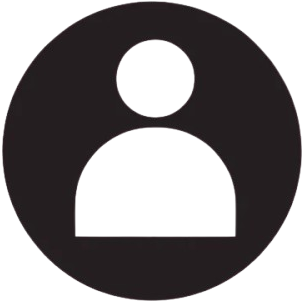
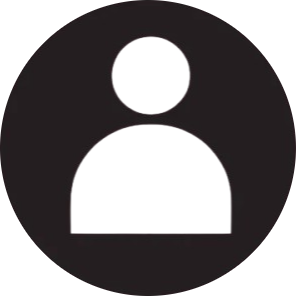
Major Commit.

diff --git a/index.html b/index.html
@@ -21,10 +21,10 @@
             </div>
         </div>
         <div class="nav-right login-and-user">
-            <a href="#">Sign Up</a>
-            <a href="#">Log In</a>
+            <a href="#" class="login-signup">Sign Up</a>
+            <a href="#" class="login-signup">Log In</a>
             <a href="#" class="nav-user">
-                <img src="/img/User-modified.png" alt="User">
+                <img src="/img/User.png" alt="User">
             </a>
         </div>
     </nav>
@@ -32,16 +32,48 @@
     <header>
         <div class="header-text">
             <h1>Learn How To Drum!</h1>
-            <p>With How To Drum.</p>
+            <p>With <span>How To Drum</span></p>
         </div>
     </header>
 
     <main>
-        <section class="">
-
+        <section class="drum-components-section">
+            <div class="section-title">
+                <h1>DRUM COMPONENTS</h1>
+            </div>
+            <div class="component-card-container">
+                <div class="component-card snare-card">
+                    <img src="/img/drum-component/snare.png" alt="Snare">
+                    <div class="component-card-description snare-card-description">
+                        <h2>Snare</h2>
+                        <p>Lorem ipsum dolor sit amet, consectetur adipisicing elit. Explicabo perspiciatis voluptatum ab, laudantium quibusdam quisquam 
+                        minus ipsum vel omnis nostrum magnam impedit nesciunt odio! Modi laborum reiciendis facere numquam autem.</p>
+                    </div>
+                </div>
+                <div class="component-card floor-tom-card">
+                    <img src="img/drum-component/floor-tom.png" alt="Floor Tom">
+                    <div class="component-card-description floor-tom-card-description">
+                        <h2>Floor Tom</h2>
+                        <p>Lorem ipsum dolor sit amet, consectetur adipisicing elit. Explicabo perspiciatis voluptatum ab, laudantium quibusdam quisquam minus ipsum vel omnis nostrum magnam impedit nesciunt odio! Modi laborum reiciendis facere numquam autem.</p>
+                    </div>
+                </div>
+                <div class="component-card floor-tom-card">
+                    <img src="img/drum-component/floor-tom.png" alt="Floor Tom">
+                    <div class="component-card-description floor-tom-card-description">
+                        <h2>Floor Tom</h2>
+                        <p>Lorem ipsum dolor sit amet, consectetur adipisicing elit. Explicabo perspiciatis voluptatum ab, laudantium quibusdam quisquam minus ipsum vel omnis nostrum magnam impedit nesciunt odio! Modi laborum reiciendis facere numquam autem.</p>
+                    </div>
+                </div>
+                <div class="component-card floor-tom-card">
+                    <img src="img/drum-component/floor-tom.png" alt="Floor Tom">
+                    <div class="component-card-description floor-tom-card-description">
+                        <h2>Floor Tom</h2>
+                        <p>Lorem ipsum dolor sit amet, consectetur adipisicing elit. Explicabo perspiciatis voluptatum ab, laudantium quibusdam quisquam minus ipsum vel omnis nostrum magnam impedit nesciunt odio! Modi laborum reiciendis facere numquam autem.</p>
+                    </div>
+                </div>
+            </div>
         </section>
         <section class="">
-
         </section>
     </main>
 </body>

diff --git a/style.css b/style.css
@@ -17,8 +17,10 @@ nav {
     display: flex;
     justify-content: space-between;
     align-items: center;
-    padding: 7px 10px;
+    padding: 6px 10px;
     background-color: cornflowerblue;
+    position: sticky;
+    top: 0;
 }
 
 .nav-left, .nav-right {
@@ -28,7 +30,7 @@ nav {
 
 .nav-logo img {
     height: 2.5rem;
-    margin-left: 0.7rem;
+    margin-left: 0.7rem;     
 }
 
 .nav-items {
@@ -56,9 +58,27 @@ nav {
     font-family: 'Raleway', sans-serif;
 }
 
+.nav-right .login-signup {
+    padding: 5px 10px;
+    margin: 3px;
+    border-radius: 0.9rem;
+    transition: all 0.15s linear;
+}
+
+.nav-right .login-signup:hover {
+    background-color: white;
+    box-shadow: 0 0 10px rgba(0, 0, 0, 0.7);
+}
+
 .nav-user img {
     height: 2rem;
     border-radius: 50%;
+    box-shadow: 0 0 10px rgba(0, 0, 0, 0.2);
+    transition: all .15s linear;
+}
+
+.nav-user img:hover {
+    box-shadow: 0 0 10px rgba(0, 0, 0, 0.7);
 }
 
 header {
@@ -84,4 +104,64 @@ header {
     font-family: 'Bebas Neue', serif;
     font-size: 1.5rem;
     margin: 0;
+}
+
+.header-text p span {
+    color: #A4A4A4;
+}
+
+.drum-components-section {
+    background-color: #FFF8F3;
+    padding: 0 115px;
+}
+
+.drum-components-section .section-title h1 {
+    font-size: 2rem;
+    font-weight: 700;
+    font-family: 'Bebas Neue', serif;
+    text-align: center;
+    margin: 30px 10px;
+}
+
+.component-card-container {
+    display: flex;
+    flex-wrap: wrap;
+    justify-content: space-between;
+}
+
+.component-card {
+    display: flex;
+    align-items: center;
+    gap: 20px;
+    padding: 20px;
+    border-radius: 20px;
+    background-color: #fff;
+    box-shadow: 0 0 10px rgba(0, 0, 0, 0.2);
+    border: 1px solid #000;
+    max-width: 600px;
+    margin: 10px 0;
+}
+
+.component-card img {
+    height: 120px;
+    border-radius: 10px;
+    object-fit: cover;
+}
+
+.component-card-description {
+    flex: 1;
+    width: auto;
+}
+
+.component-card-description h2 {
+    font-size: 1.5rem;
+    margin-bottom: 10px;
+    color: #000;
+}
+
+.component-card-description p {
+    font-size: 1rem;
+    color: #000;
+    text-align: justify;
+    line-height: 1.5;
 }
